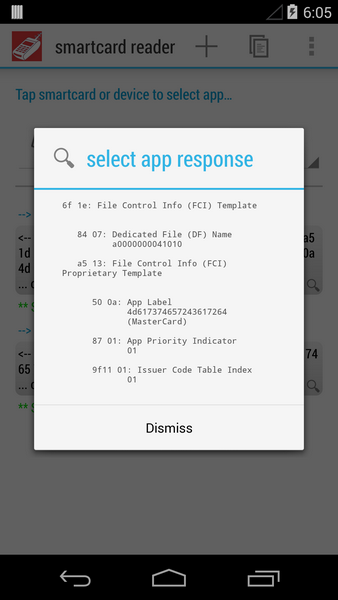
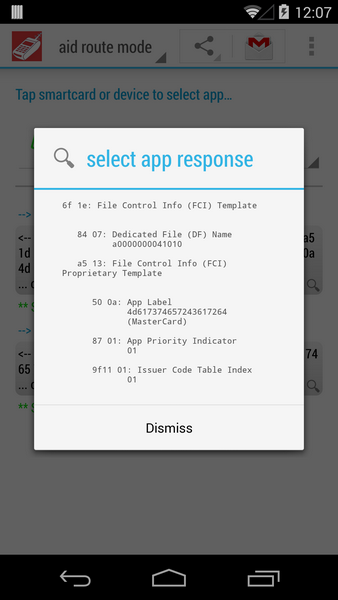
updated readme screenshots

diff --git a/README.md b/README.md
@@ -84,6 +84,14 @@ new reader mode is a key enabler of smartcard-reader.
 
 #### Screenshots
 
+<img align="left" src="/docs/tn_screen_emv_read.png>
+
+<img align="right" src="/docs/tn_screen_share_gmail.png>
+
+## ![Screen](/docs/tn_screen_emv_read.png)
+
+## ![Screen](/docs/tn_screen_share_gmail.png)
+
 ![Screen](/docs/tn_screen_select_mc.png)
 
 ![Screen](/docs/tn_screen_parsed_select_rsp.png)
